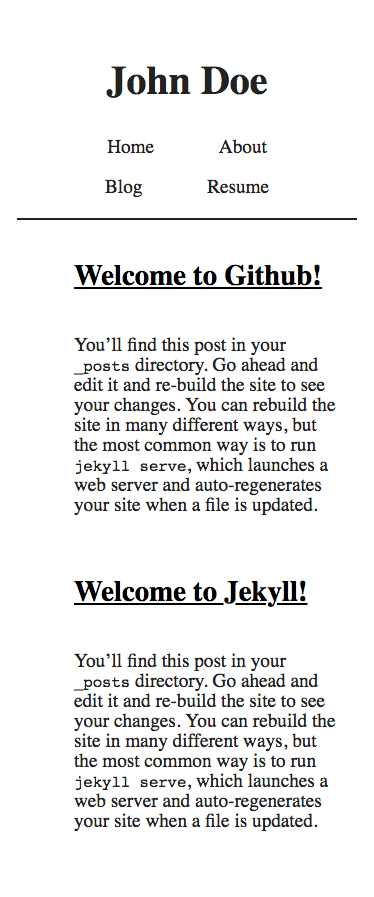
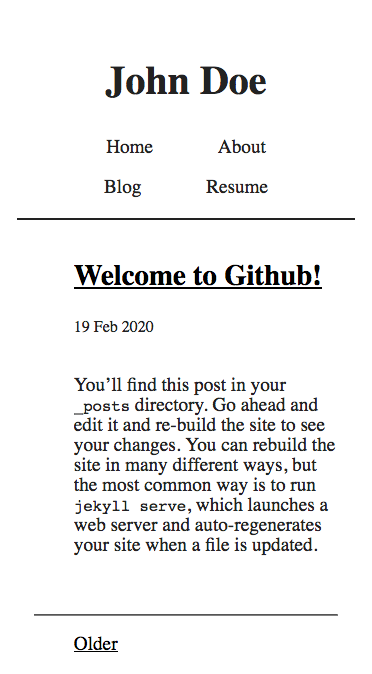
jekyll-paginate-v2 integrated
Corrected Post Title in blogs
Added Date in the Blogs
Added Jekyll-paginate-v2 to the blogs.
Updated ReadMe

Changed region(s): [[0.1774, 0.3739, 0.9167, 0.9659], [0.0591, 0.0623, 0.9462, 0.3427]]

diff --git a/_layouts/blog.html b/_layouts/blog.html
@@ -2,14 +2,30 @@
 layout: description
 title: Blog
 pagetype: blog
+pagination:
+  enabled: true
 ---
-<div class="blog-section-list">
-    <ul>
-        {% for post in site.posts  %}
-            <li>
-                <h2><a href="{{ post.url | relative_url }}">{{ post.title }}</a></h2>
-                <p>{{ post.excerpt }}</p>
-            </li>
-        {% endfor %}
-    </ul>
-</div>
+<!-- This loops through the paginated posts -->
+<ul>
+    {% for post in paginator.posts %}
+        <h2><a href="{{ post.url | relative_url }}">{{ post.title }}</a></h2>
+        <small>{{ post.date | date_to_string }}</small>
+        <p>{{ post.excerpt }}</p>
+    {% endfor %}
+</ul>
+<hr>
+{% if paginator.total_pages > 1 %}
+<ul>
+
+    {% if paginator.previous_page %}
+        <li>
+            <a href="{{ paginator.previous_page_path | prepend: site.baseurl }}">Newer</a>
+        </li>
+    {% endif %}
+    {% if paginator.next_page %}
+        <li>
+            <a href="{{ paginator.next_page_path | prepend: site.baseurl }}">Older</a>
+        </li>
+    {% endif %}
+</ul>
+{% endif %}

diff --git a/_layouts/post.html b/_layouts/post.html
@@ -1,7 +1,8 @@
 ---
 layout: description
 ---
-<h2>{{ post.title }}</h2>
+<h2>{{ page.title }}</h2>
+<small>{{ post.date | date_to_string }}</small>
 {{content}}
 
 {% if page.comments%}

diff --git a/README.md b/README.md
@@ -52,6 +52,7 @@ To start using the theme you need to create and edit some extra files in the roo
 
 ```yaml
 layout: blog
+title: blog
 permalink: /blog/
 ```
 
@@ -62,24 +63,29 @@ layout: description
 permalink: /about/
 ```
 
-3. In the `_congif.yml` file add a key `resume_url` and set it to the path of the Resume.
+3. In the `_congif.yml` file add a key `resume_url` and set it to the path of the Resume. Also add `author_name` to your name to appear on the website.
 
 For example if the Resume is located in the root directory
 
 ```yaml
 resume_url: 'Resume.pdf'
+author_name: [YOUR-NAME]
 ```
 
-4. In the `index.md` file add
+### Pagination
+
+Visit [jekyll-paginate-v2](https://github.com/sverrirs/jekyll-paginate-v2/blob/master/README-GENERATOR.md#site-configuration) and add this to your `_config.yml` file to enable pagination.
+
+Check [_config.yml](https://github.com/rohitjain00/dev-portfolio-blog/blob/master/_config.yml).
+
+
+1. In the `index.md` file add
 
 ```yaml
 home_text : some-text
-author_name: your-name
 ```
 
 Replace "some-text" with your text
-
-Replace "your-name" with your name
 
 ## Contributing
 
